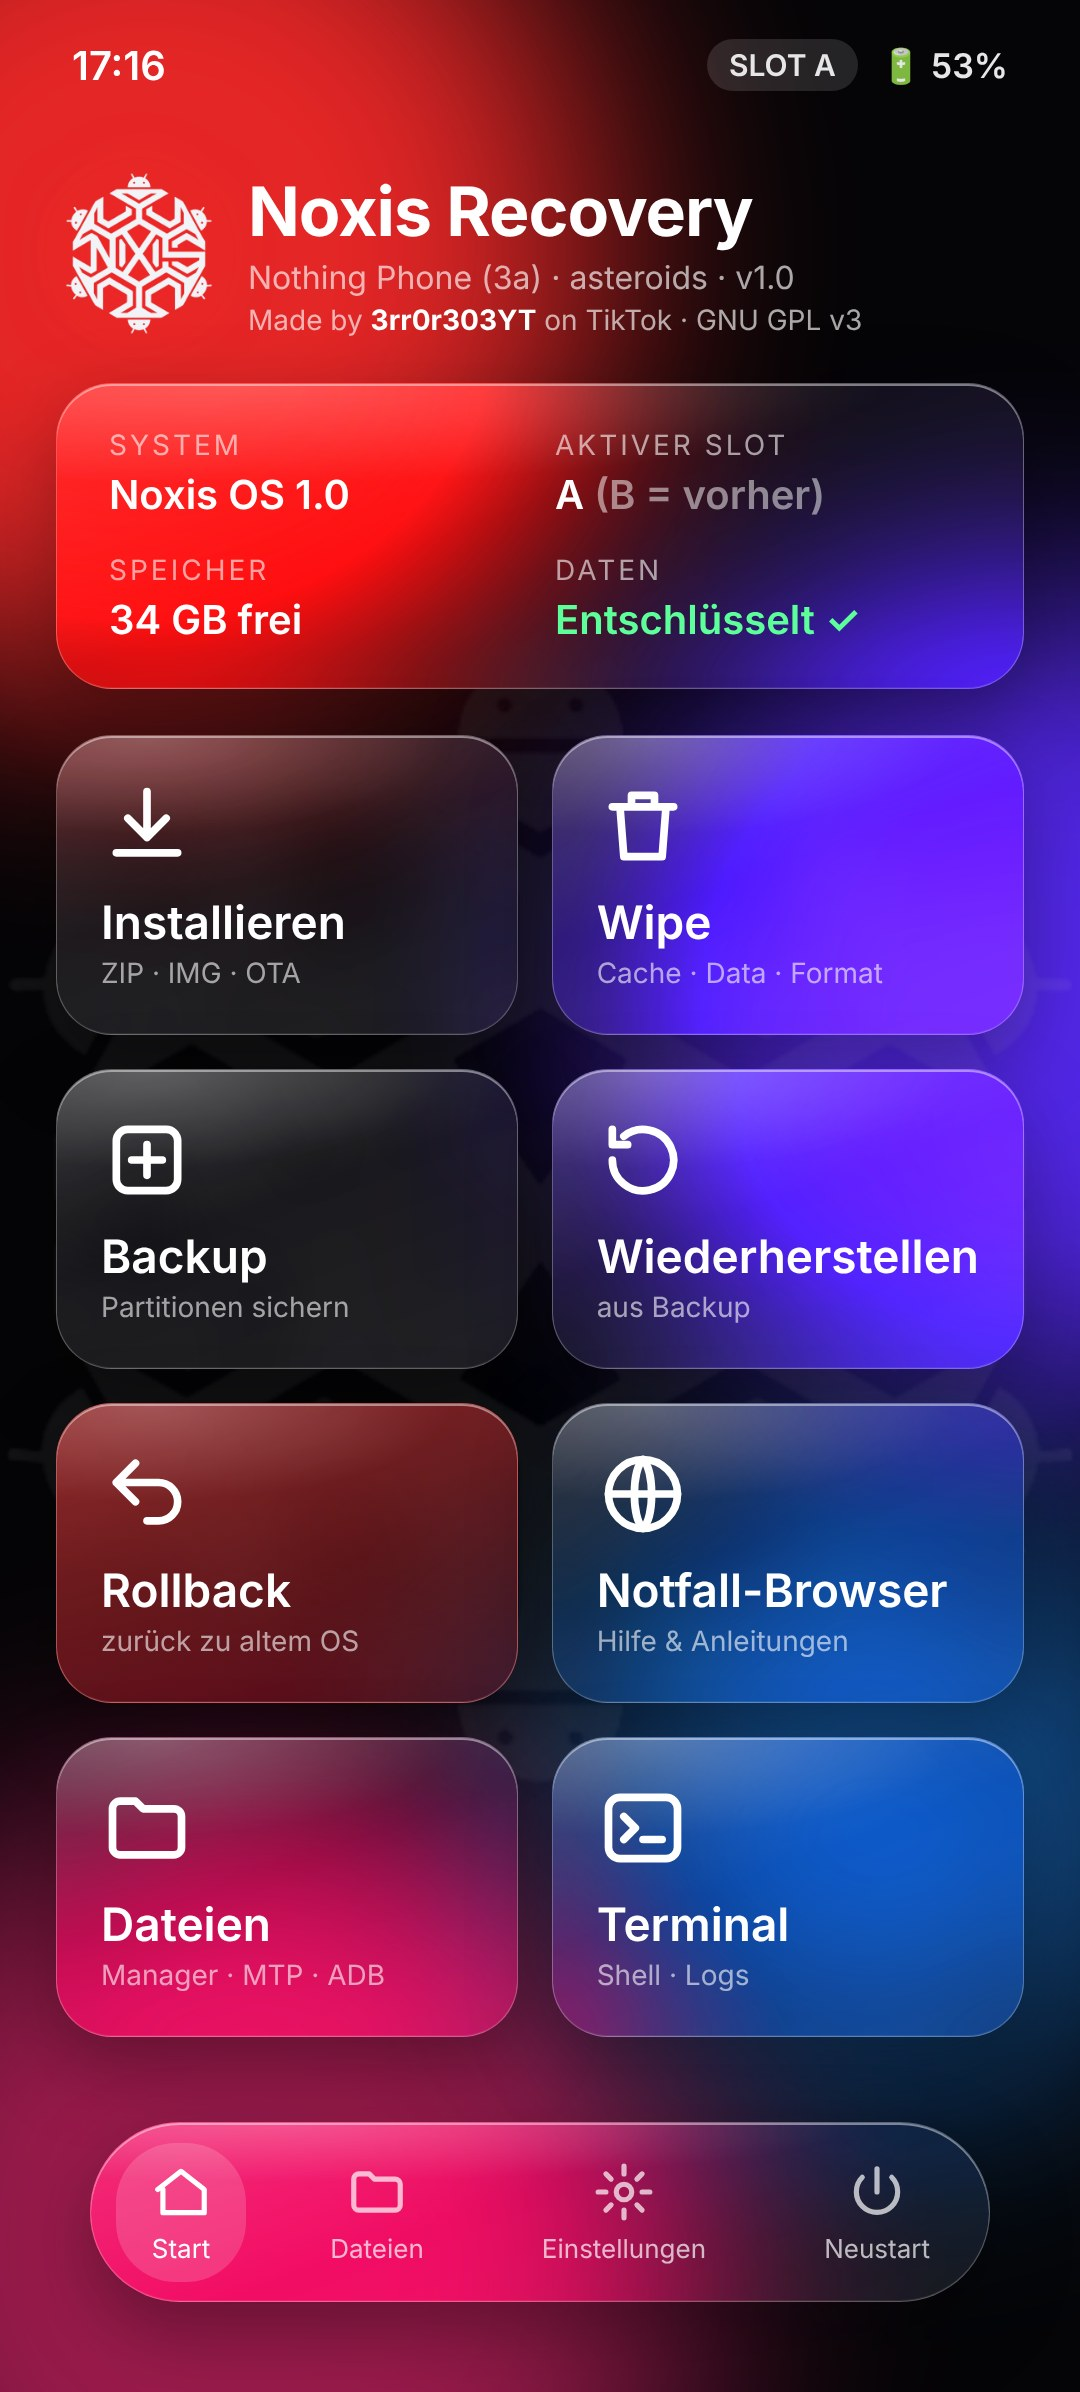
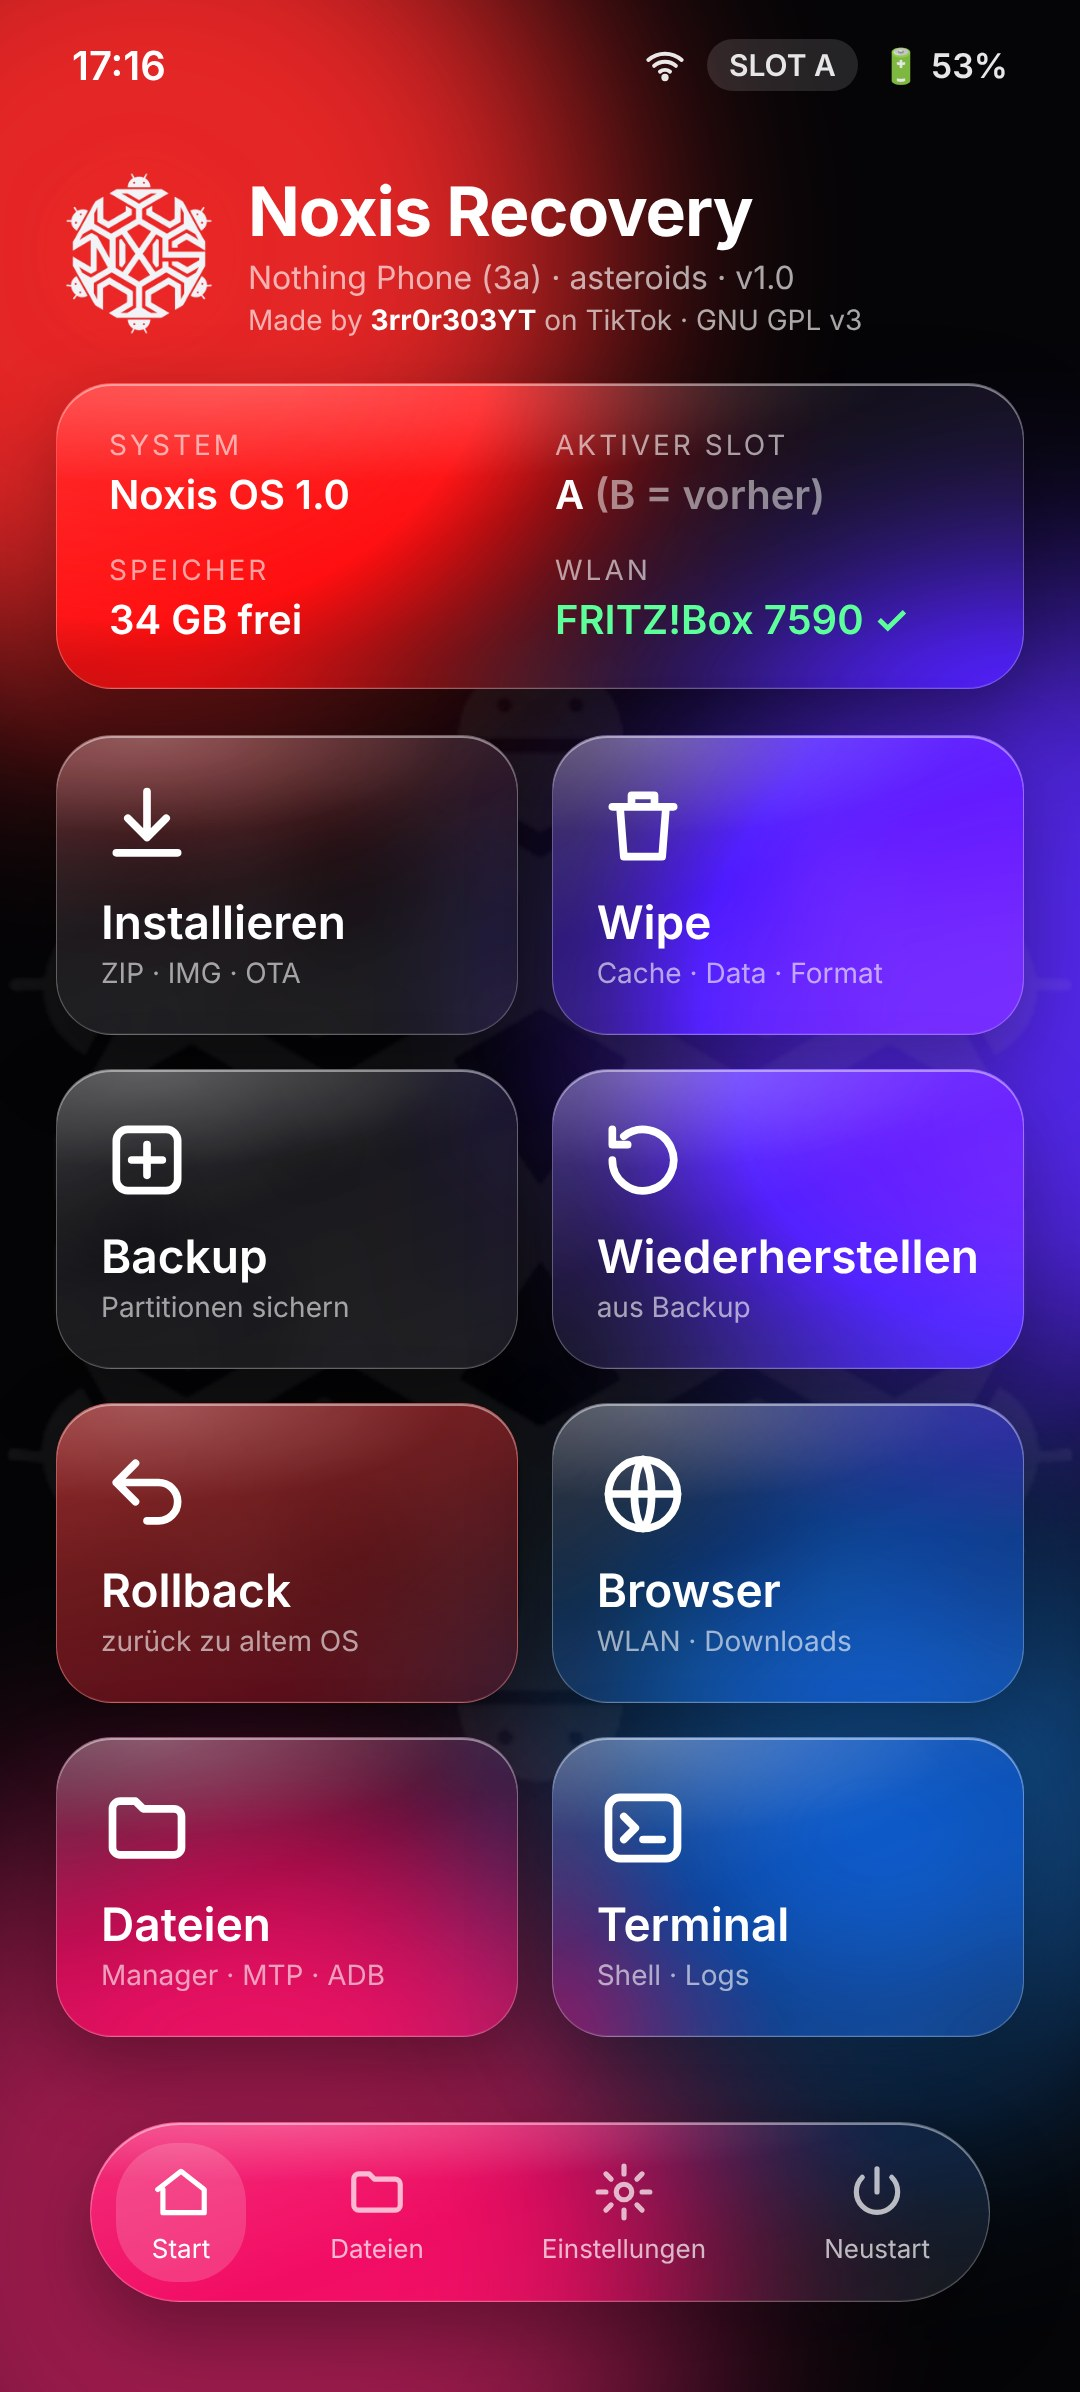
Design: Wi-Fi screen and online browser with downloads
Claude-Session: https://claude.ai/code/session_01GK3zBhcRueEiXmdcqT4wxw

Changed region(s): [[0.55, 0.6497, 0.8861, 0.7115], [0.5194, 0.2166, 0.7944, 0.2784], [0.6111, 0.0, 0.6417, 0.0309]]

diff --git a/design/mock.html b/design/mock.html
@@ -84,6 +84,32 @@ code{font-family:"DejaVu Sans Mono",monospace;font-size:31px;background:rgba(0,0
 .log{padding:40px 46px;font-family:"DejaVu Sans Mono",monospace;font-size:27px;line-height:1.65;color:rgba(255,255,255,.82);height:640px;overflow:hidden}
 .credit{position:absolute;left:0;right:0;bottom:120px;text-align:center;font-size:30px;color:rgba(255,255,255,.7);line-height:1.6}
 .credit b{color:#fff}.credit .gpl{display:inline-block;margin-top:10px;padding:6px 22px;border-radius:30px;border:1.5px solid rgba(255,255,255,.3);background:rgba(255,255,255,.1);font-size:26px;font-weight:600;letter-spacing:1px}
+.net{padding:14px 0}
+.net .it{display:flex;align-items:center;gap:34px;padding:34px 50px;font-size:42px;border-bottom:1px solid rgba(255,255,255,.1)}
+.net .it:last-child{border:none}
+.net .it svg{width:56px;height:56px;stroke:#fff;fill:none;stroke-width:2.2;stroke-linecap:round}
+.net .it .m{margin-left:auto;font-size:28px;color:rgba(255,255,255,.6)}
+.net .it.c{color:#fff}.net .it.c .m{color:#5dff9a;font-weight:600}
+.toggle{width:150px;height:86px;border-radius:43px;background:#34c759;position:relative;flex:none}
+.toggle::after{content:"";position:absolute;right:6px;top:6px;width:74px;height:74px;border-radius:50%;background:#fff;box-shadow:0 4px 12px rgba(0,0,0,.3)}
+.field{height:130px;border-radius:40px;display:flex;align-items:center;padding:0 46px;font-size:40px;margin:20px 0}
+.kb{position:absolute;left:0;right:0;bottom:0;height:760px;border-radius:60px 60px 0 0;padding:40px 18px;display:flex;flex-direction:column;gap:22px}
+.kr{display:flex;gap:14px;justify-content:center}
+.kk{width:92px;height:130px;border-radius:22px;background:rgba(255,255,255,.22);display:flex;align-items:center;justify-content:center;font-size:48px}
+.kk.w{width:200px;font-size:32px}.kk.sp{width:500px;font-size:32px}.kk.go{width:200px;background:#ff2a2a;font-size:32px;font-weight:600}
+.web{padding:0;overflow:hidden}
+.web .hd{display:flex;align-items:center;gap:20px;padding:34px 46px;background:rgba(0,0,0,.35);font-size:32px}
+.web .hd b{font-size:36px}
+.web .bd{padding:40px 46px;font-size:32px;line-height:1.5}
+.rel{display:flex;align-items:center;gap:26px;padding:30px 0;border-bottom:1px solid rgba(255,255,255,.1)}
+.rel:last-child{border:none}
+.rel .f{font-family:"DejaVu Sans Mono",monospace;font-size:29px}
+.rel .sz{font-size:26px;color:rgba(255,255,255,.55)}
+.btn{margin-left:auto;padding:16px 30px;border-radius:34px;background:#ff2a2a;font-size:28px;font-weight:600;flex:none}
+.btn.g{background:rgba(255,255,255,.18)}
+.dl{padding:40px 50px;margin-top:30px}
+.bar{height:22px;border-radius:11px;background:rgba(255,255,255,.15);margin-top:22px;overflow:hidden}
+.bar i{display:block;height:100%;width:42%;border-radius:11px;background:linear-gradient(90deg,#ff2a2a,#ff7a5a)}
 .log .g{color:#5dff9a}.log .r{color:#ff6b6b}
 </style></head>
 <body>
@@ -92,13 +118,13 @@ code{font-family:"DejaVu Sans Mono",monospace;font-size:31px;background:rgba(0,0
 
 <!-- ============ HOME ============ -->
 <div class="screen" id="home">
- <div class="status"><span>17:16</span><span class="r"><span class="pill">SLOT A</span><span>🔋 53%</span></span></div>
+ <div class="status"><span>17:16</span><span class="r"><svg viewBox="0 0 24 24" style="width:40px;height:40px;stroke:#fff;fill:none;stroke-width:2.4;stroke-linecap:round"><path d="M2 9a15 15 0 0 1 20 0M5.5 12.5a10 10 0 0 1 13 0M9 16a5 5 0 0 1 6 0"/><circle cx="12" cy="19.5" r="1" fill="#fff"/></svg><span class="pill">SLOT A</span><span>🔋 53%</span></span></div>
  <div class="head"><img src="logo.png"><div><div class="t">Noxis Recovery</div><div class="s">Nothing Phone (3a) · asteroids · v1.0</div><div class="s" style="font-size:28px">Made by <b style="color:#fff">3rr0r303YT</b> on TikTok · GNU GPL v3</div></div></div>
  <div class="glass info">
   <div><div class="k">System</div><div class="v">Noxis OS 1.0</div></div>
   <div><div class="k">Aktiver Slot</div><div class="v">A <span style="color:rgba(255,255,255,.5)">(B = vorher)</span></div></div>
   <div><div class="k">Speicher</div><div class="v">34 GB frei</div></div>
-  <div><div class="k">Daten</div><div class="v ok">Entschlüsselt ✓</div></div>
+  <div><div class="k">WLAN</div><div class="v ok">FRITZ!Box 7590 ✓</div></div>
  </div>
  <div class="grid">
   <div class="glass tile"><svg viewBox="0 0 24 24"><path d="M12 3v12M7 10l5 5 5-5M4 19h16"/></svg><div><div class="n">Installieren</div><div class="d">ZIP · IMG · OTA</div></div></div>
@@ -106,7 +132,7 @@ code{font-family:"DejaVu Sans Mono",monospace;font-size:31px;background:rgba(0,0
   <div class="glass tile"><svg viewBox="0 0 24 24"><rect x="4" y="4" width="16" height="16" rx="3"/><path d="M8 12h8M12 8v8"/></svg><div><div class="n">Backup</div><div class="d">Partitionen sichern</div></div></div>
   <div class="glass tile"><svg viewBox="0 0 24 24"><path d="M4 12a8 8 0 1 0 3-6.2M4 4v4h4"/></svg><div><div class="n">Wiederherstellen</div><div class="d">aus Backup</div></div></div>
   <div class="glass tile red"><svg viewBox="0 0 24 24"><path d="M9 14L4 9l5-5M4 9h11a5 5 0 0 1 0 10h-3"/></svg><div><div class="n">Rollback</div><div class="d">zurück zu altem OS</div></div></div>
-  <div class="glass tile"><svg viewBox="0 0 24 24"><circle cx="12" cy="12" r="9"/><path d="M3 12h18M12 3c3 3 3 15 0 18M12 3c-3 3-3 15 0 18"/></svg><div><div class="n">Notfall-Browser</div><div class="d">Hilfe & Anleitungen</div></div></div>
+  <div class="glass tile"><svg viewBox="0 0 24 24"><circle cx="12" cy="12" r="9"/><path d="M3 12h18M12 3c3 3 3 15 0 18M12 3c-3 3-3 15 0 18"/></svg><div><div class="n">Browser</div><div class="d">WLAN · Downloads</div></div></div>
   <div class="glass tile"><svg viewBox="0 0 24 24"><path d="M3 7a2 2 0 0 1 2-2h4l2 2h8a2 2 0 0 1 2 2v8a2 2 0 0 1-2 2H5a2 2 0 0 1-2-2z"/></svg><div><div class="n">Dateien</div><div class="d">Manager · MTP · ADB</div></div></div>
   <div class="glass tile"><svg viewBox="0 0 24 24"><rect x="3" y="4" width="18" height="16" rx="3"/><path d="M7 9l3 3-3 3M12 15h5"/></svg><div><div class="n">Terminal</div><div class="d">Shell · Logs</div></div></div>
  </div>
@@ -120,7 +146,7 @@ code{font-family:"DejaVu Sans Mono",monospace;font-size:31px;background:rgba(0,0
 
 <!-- ============ ROLLBACK ============ -->
 <div class="screen" id="rollback">
- <div class="status"><span>17:17</span><span class="r"><span class="pill">SLOT A</span><span>🔋 53%</span></span></div>
+ <div class="status"><span>17:17</span><span class="r"><svg viewBox="0 0 24 24" style="width:40px;height:40px;stroke:#fff;fill:none;stroke-width:2.4;stroke-linecap:round"><path d="M2 9a15 15 0 0 1 20 0M5.5 12.5a10 10 0 0 1 13 0M9 16a5 5 0 0 1 6 0"/><circle cx="12" cy="19.5" r="1" fill="#fff"/></svg><span class="pill">SLOT A</span><span>🔋 53%</span></span></div>
  <h1>Rollback</h1><div class="sub">Zurück zu einem funktionierenden System</div>
  <div class="list">
   <div class="glass row sel"><div class="ic"><svg viewBox="0 0 24 24"><path d="M7 7h11l-3-3M17 17H6l3 3"/></svg></div><div><div class="n">Slot wechseln A → B</div><div class="d">Vorherige Version · sofort,<br>nichts wird gelöscht</div></div><div class="radio"></div></div>
@@ -134,30 +160,54 @@ code{font-family:"DejaVu Sans Mono",monospace;font-size:31px;background:rgba(0,0
 
 <!-- ============ BROWSER ============ -->
 <div class="screen" id="browser">
- <div class="status"><span>17:18</span><span class="r"><span class="pill">SLOT A</span><span>🔋 52%</span></span></div>
- <div class="glass addr"><svg viewBox="0 0 24 24"><rect x="5" y="11" width="14" height="9" rx="2"/><path d="M8 11V8a4 4 0 0 1 8 0v3"/></svg>noxis://notfall<span class="off">OFFLINE</span></div>
- <div class="glass page">
-  <h2>Handy startet nicht?</h2>
-  <ol>
-   <li><b>Rollback → Slot wechseln</b> – startet die vorherige Version.</li>
-   <li>Klappt nicht? Stock-Firmware auf PC laden und per ADB schicken:<br><code>adb push stock/ /sdcard/Noxis/stock</code></li>
-   <li><b>Rollback → Nothing OS (Stock)</b> wählen und wischen.</li>
-   <li>Bootloop? Lautstärke ↓ + Power 10 s halten → Fastboot.</li>
-  </ol>
+ <div class="status"><span>17:24</span><span class="r"><svg viewBox="0 0 24 24" style="width:40px;height:40px;stroke:#fff;fill:none;stroke-width:2.4;stroke-linecap:round"><path d="M2 9a15 15 0 0 1 20 0M5.5 12.5a10 10 0 0 1 13 0M9 16a5 5 0 0 1 6 0"/><circle cx="12" cy="19.5" r="1" fill="#fff"/></svg><span class="pill">SLOT A</span><span>🔋 52%</span></span></div>
+ <div class="glass addr"><svg viewBox="0 0 24 24"><rect x="5" y="11" width="14" height="9" rx="2"/><path d="M8 11V8a4 4 0 0 1 8 0v3"/></svg>github.com/Real3rr0r303YT/NoxisOS<span class="off" style="background:rgba(52,199,89,.4)">WLAN</span></div>
+ <div class="glass web">
+  <div class="hd"><b>NoxisOS</b><span style="color:rgba(255,255,255,.6)">· Releases</span></div>
+  <div class="bd">
+   <div style="font-size:44px;font-weight:700">Noxis OS 1.1 <span style="font-size:26px;padding:6px 16px;border-radius:20px;background:rgba(52,199,89,.35);vertical-align:middle">Latest</span></div>
+   <div style="color:rgba(255,255,255,.6);margin:6px 0 16px">11. Nov 2026 · asteroids</div>
+   <div class="rel"><div><div class="f">NoxisOS-1.1-asteroids.zip</div><div class="sz">1,4 GB</div></div><div class="btn">Laden</div></div>
+   <div class="rel"><div><div class="f">noxis-recovery.img</div><div class="sz">96 MB</div></div><div class="btn g">Laden</div></div>
+   <div class="rel"><div><div class="f">SHA256SUMS</div><div class="sz">1 KB</div></div><div class="btn g">Laden</div></div>
+  </div>
  </div>
- <div class="glass qrrow"><div class="qr"><canvas id="qr" width="29" height="29"></canvas></div>
-  <div><div style="font-size:44px;font-weight:600">Stock-Firmware</div><div style="font-size:30px;color:rgba(255,255,255,.65);margin-top:12px;line-height:1.4">Mit einem anderen Handy scannen<br>→ Nothing Archive (offizielle Images)</div></div></div>
+ <div class="glass dl">
+  <div style="display:flex;justify-content:space-between;font-size:36px"><b>NoxisOS-1.1-asteroids.zip</b><span>42%</span></div>
+  <div style="font-size:28px;color:rgba(255,255,255,.6);margin-top:8px">→ /sdcard/Noxis/download · 7,8 MB/s · SHA256 wird geprüft</div>
+  <div class="bar"><i></i></div>
+ </div>
  <div class="glass tabbar">
-  <div class="tab on"><svg viewBox="0 0 24 24"><circle cx="12" cy="12" r="9"/><path d="M12 8v5M12 16v.5"/></svg>Notfall</div>
-  <div class="tab"><svg viewBox="0 0 24 24"><path d="M5 4h11l3 3v13H5z"/><path d="M8 10h8M8 14h8"/></svg>Anleitungen</div>
-  <div class="tab"><svg viewBox="0 0 24 24"><rect x="3" y="4" width="18" height="16" rx="3"/><path d="M7 9h10M7 13h6"/></svg>Logs</div>
   <div class="tab"><svg viewBox="0 0 24 24"><path d="M15 6l-6 6 6 6"/></svg>Zurück</div>
+  <div class="tab on"><svg viewBox="0 0 24 24"><circle cx="12" cy="12" r="9"/><path d="M3 12h18M12 3c3 3 3 15 0 18M12 3c-3 3-3 15 0 18"/></svg>Web</div>
+  <div class="tab"><svg viewBox="0 0 24 24"><path d="M12 3v12M7 10l5 5 5-5M4 19h16"/></svg>Downloads</div>
+  <div class="tab"><svg viewBox="0 0 24 24"><circle cx="12" cy="12" r="9"/><path d="M12 8v5M12 16v.5"/></svg>Notfall</div>
+ </div>
+</div>
+
+<!-- ============ WIFI ============ -->
+<div class="screen" id="wifi">
+ <div class="status"><span>17:23</span><span class="r"><span class="pill">SLOT A</span><span>🔋 53%</span></span></div>
+ <h1>WLAN</h1><div class="sub">Für Browser, Downloads und OTA-Updates</div>
+ <div class="glass row" style="padding:36px 50px"><div class="n">WLAN</div><div class="toggle" style="margin-left:auto"></div></div>
+ <div class="glass net" style="margin-top:30px">
+  <div class="it c"><svg viewBox="0 0 24 24" ><path d="M2 9a15 15 0 0 1 20 0M5.5 12.5a10 10 0 0 1 13 0M9 16a5 5 0 0 1 6 0"/><circle cx="12" cy="19.5" r="1" fill="#fff"/></svg><div><div>FRITZ!Box 7590</div></div><div class="m">Verbunden</div></div>
+  <div class="it"><svg viewBox="0 0 24 24" ><path d="M2 9a15 15 0 0 1 20 0M5.5 12.5a10 10 0 0 1 13 0M9 16a5 5 0 0 1 6 0"/><circle cx="12" cy="19.5" r="1" fill="#fff"/></svg><div>Vodafone-4A2C</div><div class="m">🔒</div></div>
+  <div class="it"><svg viewBox="0 0 24 24" ><path d="M2 9a15 15 0 0 1 20 0M5.5 12.5a10 10 0 0 1 13 0M9 16a5 5 0 0 1 6 0"/><circle cx="12" cy="19.5" r="1" fill="#fff"/></svg><div>Telekom_FON</div><div class="m">offen</div></div>
+  <div class="it"><svg viewBox="0 0 24 24" ><path d="M2 9a15 15 0 0 1 20 0M5.5 12.5a10 10 0 0 1 13 0M9 16a5 5 0 0 1 6 0"/><circle cx="12" cy="19.5" r="1" fill="#fff"/></svg><div>Pixel_Hotspot</div><div class="m">🔒</div></div>
+ </div>
+ <div class="glass field" style="margin-top:34px">Passwort: ••••••••••<span style="margin-left:auto;font-size:30px;color:rgba(255,255,255,.6)">WPA2/WPA3</span></div>
+ <div class="glass kb">
+  <div class="kr"><div class="kk">q</div><div class="kk">w</div><div class="kk">e</div><div class="kk">r</div><div class="kk">t</div><div class="kk">z</div><div class="kk">u</div><div class="kk">i</div><div class="kk">o</div><div class="kk">p</div></div>
+  <div class="kr"><div class="kk">a</div><div class="kk">s</div><div class="kk">d</div><div class="kk">f</div><div class="kk">g</div><div class="kk">h</div><div class="kk">j</div><div class="kk">k</div><div class="kk">l</div></div>
+  <div class="kr"><div class="kk w">⇧</div><div class="kk">y</div><div class="kk">x</div><div class="kk">c</div><div class="kk">v</div><div class="kk">b</div><div class="kk">n</div><div class="kk">m</div><div class="kk w">⌫</div></div>
+  <div class="kr"><div class="kk w">123</div><div class="kk sp">Leerzeichen</div><div class="kk go">Verbinden</div></div>
  </div>
 </div>
 
 <!-- ============ UNLOCK ============ -->
 <div class="screen" id="unlock">
- <div class="status"><span>17:15</span><span class="r"><span class="pill">SLOT A</span><span>🔋 53%</span></span></div>
+ <div class="status"><span>17:15</span><span class="r"><svg viewBox="0 0 24 24" style="width:40px;height:40px;stroke:#fff;fill:none;stroke-width:2.4;stroke-linecap:round"><path d="M2 9a15 15 0 0 1 20 0M5.5 12.5a10 10 0 0 1 13 0M9 16a5 5 0 0 1 6 0"/><circle cx="12" cy="19.5" r="1" fill="#fff"/></svg><span class="pill">SLOT A</span><span>🔋 53%</span></span></div>
  <div class="center">
   <img class="lockic" src="logo.png">
   <div style="font-size:60px;font-weight:700">Daten entsperren</div>
@@ -175,7 +225,7 @@ code{font-family:"DejaVu Sans Mono",monospace;font-size:31px;background:rgba(0,0
 
 <!-- ============ INSTALL ============ -->
 <div class="screen" id="install">
- <div class="status"><span>17:21</span><span class="r"><span class="pill">SLOT B</span><span>🔋 51%</span></span></div>
+ <div class="status"><span>17:21</span><span class="r"><svg viewBox="0 0 24 24" style="width:40px;height:40px;stroke:#fff;fill:none;stroke-width:2.4;stroke-linecap:round"><path d="M2 9a15 15 0 0 1 20 0M5.5 12.5a10 10 0 0 1 13 0M9 16a5 5 0 0 1 6 0"/><circle cx="12" cy="19.5" r="1" fill="#fff"/></svg><span class="pill">SLOT B</span><span>🔋 51%</span></span></div>
  <h1>Installiere…</h1><div class="sub">NoxisOS-1.1-asteroids.zip → Slot B</div>
  <div class="glass ring" style="border-radius:50%">
   <svg viewBox="0 0 100 100"><circle cx="50" cy="50" r="42" stroke="rgba(255,255,255,.12)" stroke-width="7" fill="none"/>

diff --git a/README.md b/README.md
@@ -21,20 +21,22 @@ Part of <a href="https://github.com/Real3rr0r303YT/NoxisOS">Noxis OS</a> and <a 
 | **Rollback** | Go back to a working system: switch the A/B slot, flash stock Nothing OS from `/sdcard/Noxis/stock`, restore the last Noxis backup or boot Noxis Linux |
 | **Auto backup** | `boot`, `init_boot`, `vendor_boot` and `dtbo` are backed up before every flash or rollback |
 | **Safe OTA install** | The inactive slot is flashed; the active slot stays bootable until the install succeeds |
-| **Emergency browser** | An offline help browser (`noxis://notfall`) with recovery guides, logs and QR codes for downloading stock firmware on another device |
+| **Wi-Fi** | Connect to WPA2/WPA3 networks in recovery (qca6750 driver, firmware loaded from the phone's own partitions) |
+| **Browser** | Lightweight web browser in recovery: open GitHub releases, download ROMs and firmware to `/sdcard/Noxis/download` with SHA-256 check |
+| **Emergency pages** | Built-in offline help (`noxis://notfall`) with guides, logs and QR codes, which also work without Wi-Fi |
 | **Decryption** | Unlock `/data` with your PIN |
 | **Tools** | File manager, MTP, ADB sideload, terminal |
 | **Languages** | Deutsch, English, Türkçe, Français, Български, Русский, Українська |
 
-The emergency browser is **offline**: the 3a's Wi-Fi does not work in recovery mode, so it shows built-in pages and QR codes instead of loading websites.
+Wi-Fi in recovery is the hardest part: the Qualcomm Wi-Fi chip needs its kernel modules, firmware and helper daemons, which normally only run in Android. It will be marked **experimental** until it works on a real device. The browser renders normal web pages; heavy JavaScript sites (YouTube, web apps) are not the goal.
 
 ## Screens
 
-| Unlock | Home | Rollback | Emergency | Install |
-|---|---|---|---|---|
-| <img src="docs/img/unlock.jpg"> | <img src="docs/img/home.jpg"> | <img src="docs/img/rollback.jpg"> | <img src="docs/img/browser.jpg"> | <img src="docs/img/install.jpg"> |
+| Unlock | Home | Wi-Fi | Browser | Rollback | Install |
+|---|---|---|---|---|---|
+| <img src="docs/img/unlock.jpg"> | <img src="docs/img/home.jpg"> | <img src="docs/img/wifi.jpg"> | <img src="docs/img/browser.jpg"> | <img src="docs/img/rollback.jpg"> | <img src="docs/img/install.jpg"> |
 
-The mockups are made from [`design/mock.html`](design/mock.html). Open `mock.html#home`, `#rollback`, `#browser`, `#unlock` or `#install` in a browser.
+The mockups are made from [`design/mock.html`](design/mock.html). Open `mock.html#home`, `#wifi`, `#browser`, `#rollback`, `#unlock` or `#install` in a browser.
 
 ## Testing (once a build exists)
 
